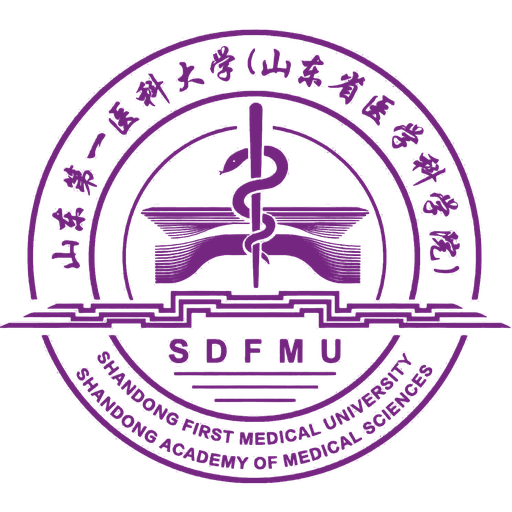
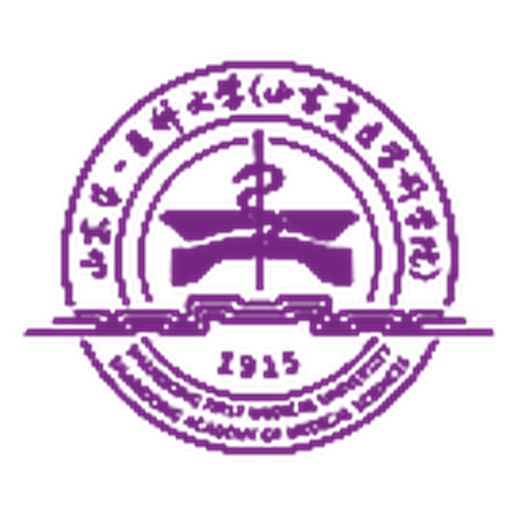
rebrand: 山一大学途导航 + 新校徽(1915) + 院徽 + 乐e驿站二维码

diff --git a/src/pages/Home.tsx b/src/pages/Home.tsx
@@ -4,6 +4,7 @@ import CategoryCard from '@/components/CategoryCard'
 import LivePreviewCard from '@/components/LivePreviewCard'
 import { campusGroups, outsideGroups } from '@/data/links'
 import emblem from '@/assets/emblem_purple.png'
+import emblemCollege from '@/assets/emblem_college.png'
 
 const quickIds = ['portal', 'jwc', 'lib', 'mail', 'network', 'pay']
 const quickIcons = [GraduationCap, CalendarDays, LibraryBig, Mail, Network, WalletCards]
@@ -22,10 +23,10 @@ export default function Home({ onOpenSearch }: { onOpenSearch: (query?: string) 
   return <div className="home-page">
     <section className="welcome" aria-labelledby="home-title"><div className="welcome-copy">
       <span className="welcome-university">山东第一医科大学</span>
-      <h1 id="home-title">山一大导航</h1>
-      <p>乐心e站 · 红魂培育坊学生自制导航：校内服务、校外资源、最新动态，一站直达。</p>
+      <h1 id="home-title">山一大学途导航</h1>
+      <p>一站式校内学习生活导航站 · 乐心e站 · 红魂培育坊学生自制</p>
       <div className="hero-search-area"><button className="hero-search" onClick={() => onOpenSearch()}><Search size={21} /><span>搜索校内 / 校外功能…</span><kbd>Ctrl K</kbd><span className="search-submit" aria-hidden="true"><ArrowUpRight size={20} /></span></button><div className="search-suggestions"><span>常用搜索</span>{['成绩', '选课', '知网', '座位预约'].map((query) => <button key={query} onClick={() => onOpenSearch(query)}>{query}</button>)}</div></div>
-    </div><div className="university-imprint" aria-label="校训：跬步千里 · 止于至善"><div className="imprint-orbit" aria-hidden="true"><img src={emblem} alt="" /></div><p>跬步千里 · 止于至善</p><span>Shandong First Medical University</span></div></section>
+    </div><div className="university-imprint" aria-label="校训：跬步千里 · 止于至善"><div className="imprint-orbit" aria-hidden="true"><img src={emblem} alt="" /></div><div className="imprint-college" aria-hidden="true"><img src={emblemCollege} alt="" title="医学信息与人工智能学院院徽" /></div><p>跬步千里 · 止于至善</p><span>Shandong First Medical University</span></div></section>
 
     <section className="primary-portals" aria-label="导航分类">
       <CategoryCard info={{ id: 'campus', title: '校内服务', subtitle: 'Campus', desc: '学习必备、校园生活、发展就业、资讯通知、公众号专区', count: campusCount }} to="/campus" />

diff --git a/src/components/Header.tsx b/src/components/Header.tsx
@@ -9,7 +9,7 @@ export default function Header({ onOpenSearch }: { onOpenSearch: () => void }) {
   const [dark, setDark] = usePersistent<boolean>('sdfmu-dark', false)
   useEffect(() => { document.documentElement.classList.toggle('dark', dark) }, [dark])
   return <header className="site-header"><div className="header-inner">
-    <Link to="/" className="brand" aria-label="山一大导航首页"><img src={dark ? emblemDark : emblemLight} alt="山东第一医科大学校徽" width="46" height="46" /><div><span className="brand-name">山一大导航</span><span className="brand-university">Shandong First Medical University</span></div></Link>
+    <Link to="/" className="brand" aria-label="山一大学途导航首页"><img src={dark ? emblemDark : emblemLight} alt="山东第一医科大学校徽" width="46" height="46" /><div><span className="brand-name">山一大学途导航</span><span className="brand-university">Shandong First Medical University</span></div></Link>
     <nav className="primary-nav" aria-label="主导航"><NavLink to="/" end>首页</NavLink><NavLink to="/campus">校内服务</NavLink><NavLink to="/outside">校外资源</NavLink><NavLink to="/live">最新动态</NavLink></nav>
     <div className="header-actions"><button className="header-search" onClick={onOpenSearch} aria-label="搜索校内 / 校外功能…"><Search size={17} /><span>搜索</span><kbd>Ctrl K</kbd></button><button className="theme-switch" aria-label="切换深色模式" aria-pressed={dark} onClick={() => setDark(!dark)}>{dark ? <Sun size={18} /> : <Moon size={18} />}</button></div>
   </div></header>

diff --git a/src/index.css b/src/index.css
@@ -77,6 +77,8 @@ kbd { font-family: var(--sans); font-size: 10px; line-height: 1; white-space: no
 .search-suggestions button { color: var(--hero-ink); text-underline-offset: 4px; }
 .search-suggestions button:hover { text-decoration: underline; }
 .university-imprint { text-align: center; color: var(--hero-ink); position: relative; padding: 14px 0 0; }
+.imprint-college { position: absolute; right: 6%; top: 62%; width: 84px; height: 84px; background: hsl(var(--card)); border: 1px solid hsl(var(--primary) / .15); border-radius: 50%; padding: 7px; box-shadow: 0 2px 10px hsl(var(--primary) / .12); }
+.imprint-college img { width: 100%; height: 100%; object-fit: contain; }
 .imprint-orbit { width: 188px; height: 188px; border: 1px solid hsl(var(--primary) / .18); border-radius: 50%; margin: 0 auto 19px; padding: 16px; outline: 1px solid hsl(var(--primary) / .08); outline-offset: 12px; }
 .imprint-orbit img { width: 100%; height: 100%; object-fit: contain; opacity: .6; mix-blend-mode: multiply; }
 .university-imprint p { font: 17px/1.5 var(--serif); letter-spacing: 3px; }

diff --git a/src/App.tsx b/src/App.tsx
@@ -36,7 +36,7 @@ export default function App() {
           <Route path="/outside/:groupId" element={<GroupPage key="outside" scope="outside" />} />
         </Routes>
       </main>
-      <footer className="site-footer"><div><Link to="/">山一大导航</Link><span>乐心e站 · 红魂培育坊学生自制导航</span></div><p>跬步千里 · 止于至善</p></footer>
+      <footer className="site-footer"><div><Link to="/">山一大学途导航</Link><span>乐心e站 · 红魂培育坊学生自制导航</span></div><p>跬步千里 · 止于至善</p></footer>
       {search && <SearchDialog open onOpenChange={(open) => { if (!open) setSearch(null) }} initialQuery={search.query} />}
     </div>
   )

diff --git a/src/data/links.ts b/src/data/links.ts
@@ -1,6 +1,7 @@
 // 链接数据：全部来自山东第一医科大学官网实际入口（2026-10 核实）
 import qrOfficial from '@/assets/qr-official-code.jpg'
 import qrCollege from '@/assets/qr-college.jpg'
+import qrLexin from '@/assets/qr-lexin.jpg'
 
 export interface LinkItem {
   id: string
@@ -269,6 +270,7 @@ export const campusGroups: LinkGroup[] = [
         name: '乐心e站',
         desc: '医学信息与人工智能学院工作室公众号',
         url: null,
+        qr: qrLexin,
         note: '微信搜索公众号「乐心e站」关注',
         tags: ['公众号', '微信', '工作室', '乐心e站'],
       },

diff --git a/index.html b/index.html
@@ -3,7 +3,7 @@
   <head>
     <meta charset="UTF-8" />
     <meta name="viewport" content="width=device-width, initial-scale=1.0" />
-    <title>山一大导航</title>
+    <title>山一大学途导航</title>
   </head>
   <body>
     <div id="root"></div>

diff --git a/vite.config.ts b/vite.config.ts
@@ -52,3 +52,5 @@ export default defineConfig({
 // touch 1792382773
 
 // touch 1792384627
+
+// touch 1792405424

diff --git a/scripts/optimize_emblem2.py b/scripts/optimize_emblem2.py
@@ -1,0 +1,44 @@
+# -*- coding: utf-8 -*-
+"""从学校横版组合标(school_lockup.png)中裁出校徽部分，抠白底，
+生成 emblem_purple.png（浅色主题）与 emblem_white.png（深色主题）。
+"""
+import numpy as np
+from PIL import Image
+
+SRC = 'src/assets/school_lockup.png'
+THRESH = 12
+SOFT = 50
+
+img = Image.open(SRC).convert('RGB')
+print('lockup size:', img.size)
+
+# 校徽位于组合标左侧（已定位：x 112-258, y 312-458），直接精裁
+crop = img.crop((112, 312, 258, 458))
+a = np.asarray(crop).astype(np.float32)
+
+dark = 255.0 - a.min(axis=2)
+ys, xs = np.where(dark > 40)
+print('emblem bbox in crop:', xs.min(), ys.min(), xs.max(), ys.max())
+pad = 6
+x0, y0 = max(xs.min() - pad, 0), max(ys.min() - pad, 0)
+x1, y1 = min(xs.max() + pad, a.shape[1]), min(ys.max() + pad, a.shape[0])
+sub = a[y0:y1, x0:x1]
+
+# 抠白底（暗度转 alpha）
+dark2 = 255.0 - sub.min(axis=2)
+alpha = np.clip((dark2 - THRESH) / SOFT, 0, 1)
+alpha = (alpha * 255).astype(np.uint8)
+
+def save(color_rgb, path, max_side):
+    rgba = np.dstack([np.tile(np.array(color_rgb, np.uint8), sub.shape[:2] + (1,)), alpha])
+    out = Image.fromarray(rgba, 'RGBA')
+    w, h = out.size
+    side = max(w, h)
+    canvas = Image.new('RGBA', (side, side), (0, 0, 0, 0))
+    canvas.paste(out, ((side - w) // 2, (side - h) // 2))
+    canvas = canvas.resize((max_side, max_side), Image.LANCZOS)
+    canvas.save(path)
+    print(path, canvas.size)
+
+save((117, 38, 129), 'src/assets/emblem_purple.png', 512)
+save((255, 255, 255), 'src/assets/emblem_white.png', 256)
